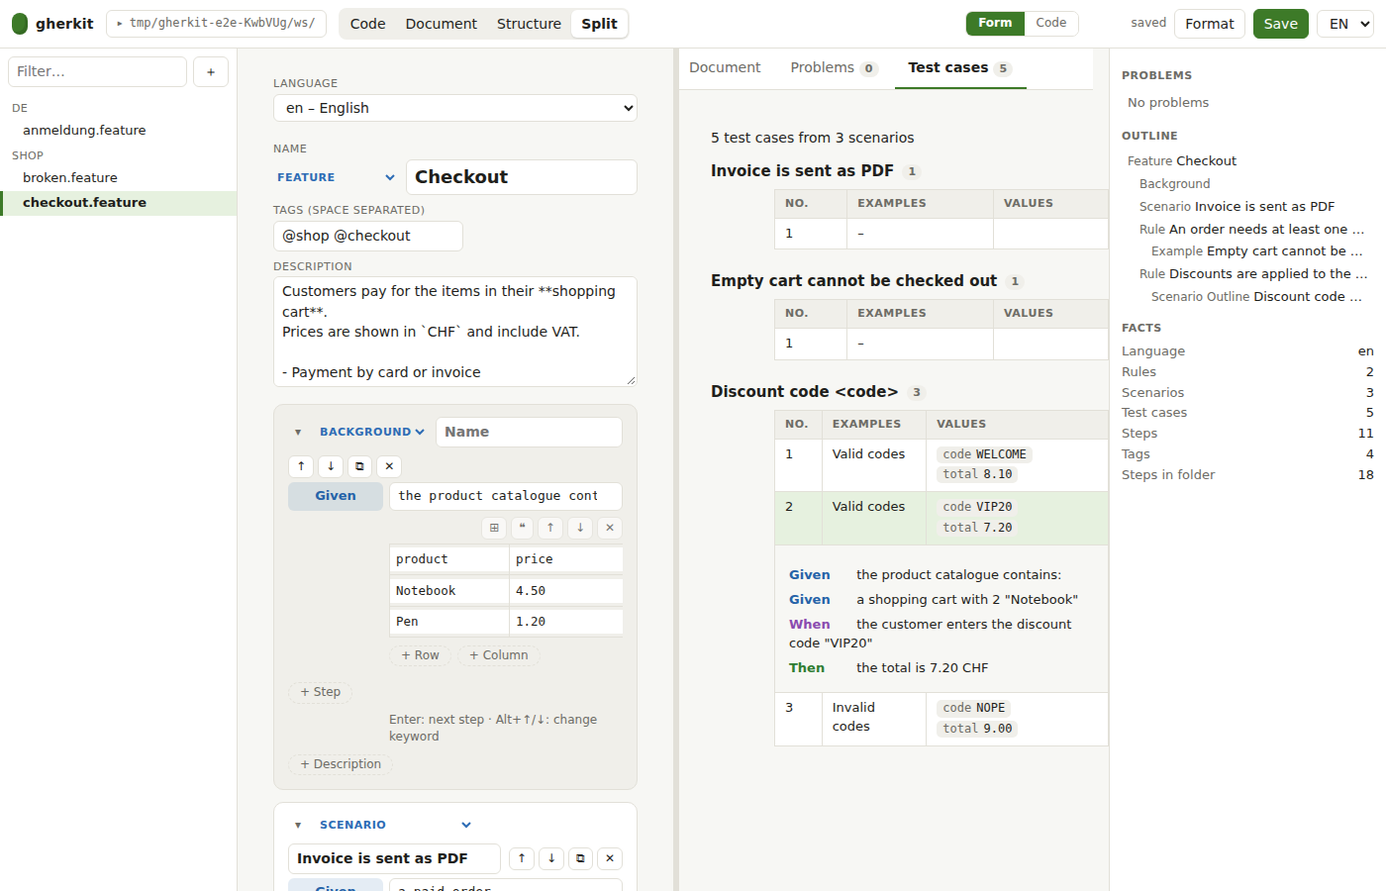
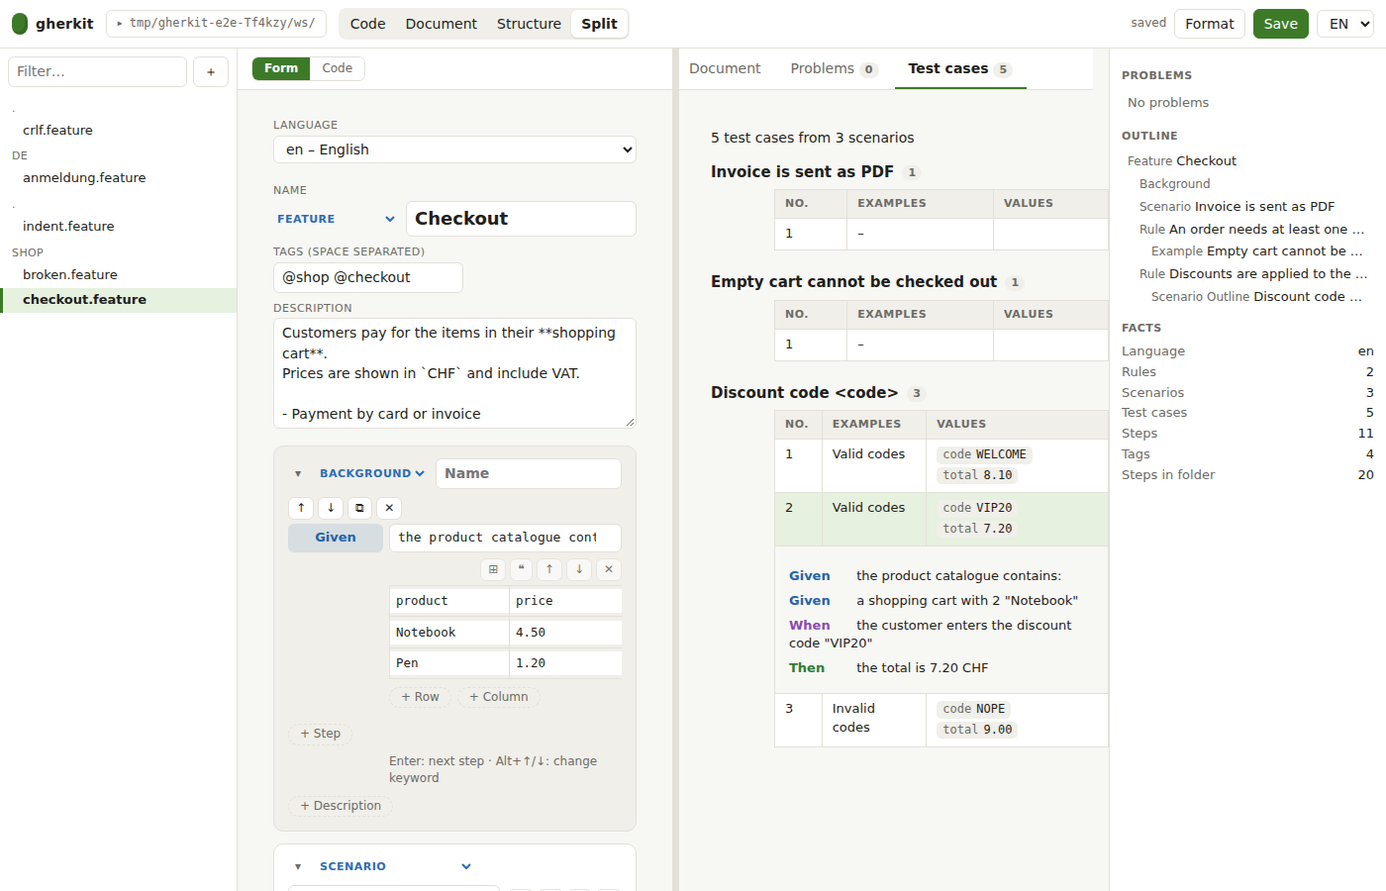
Editor: Split with a header on both halves, position travels with the switch, Alt+1/Alt+2
Split gets a header on both halves: Form | Code on the left, Document, Problems and Test cases on the right. Switching between form and code keeps the place, Alt+1 and Alt+2 switch, and the choice is remembered per file. Fixes: the highlighting is moved along with an edit instead of garbling after Enter, and a file longer than the screen is shown completely in the code view. Browser tests, docs and screenshots updated.

Claude-Session: https://claude.ai/code/session_01XnqX1XzzLxZZywwT6JKDy8

diff --git a/internal/server/web/app.js b/internal/server/web/app.js
@@ -24,7 +24,7 @@
       row: '+ Zeile', col: '+ Spalte', newFileName: 'Dateiname für das neue Feature (z. B. login.feature):', discard: 'Ungespeicherte Änderungen verwerfen?',
       folderFeatures: '{n} Features', fmtFailed: 'Formatieren nicht möglich: Syntaxfehler', comments: 'Kommentare',
       tagFilter: 'Nach Tag filtern', clearFilter: 'Filter aufheben', noMatch: 'Kein Szenario mit diesem Tag.',
-      copy: 'Kopie', leftForm: 'Formular', tabDoc: 'Dokument', tabProblems: 'Probleme', tabCases: 'Testfälle', casesSummary: '{n} Testfälle aus {m} Szenarien', caseNo: 'Nr.', caseEx: 'Beispiele', caseVals: 'Werte', noCases: 'Keine Testfälle.', layoutCards: 'Karten', layoutList: 'Liste', layoutLabel: 'Darstellung', ruleHint: 'Die Szenarien dieser Regel stehen in der Liste links.', badOrder: 'Reihenfolge nicht erlaubt: Hintergrund steht zuerst, Szenarien vor den Regeln.', noName: '(ohne Namen)', featureItem: 'Funktionalität', openCase: 'Testfall ein-/ausklappen', leftCode: 'Code', splitLeftLabel: 'Linke Seite', stepHint: 'Enter: nächster Schritt · Alt+↑/↓: Schlüsselwort wechseln', chipTags: '+ Tags', chipDesc: '+ Beschreibung', kwTitle: 'Schlüsselwort wechseln (Klick, Umschalt+Klick rückwärts)', pasteHint: 'Aus Excel einfügen: Tabellenbereich kopieren und hier einfügen', duplicate: 'Duplizieren', fold: 'Auf-/zuklappen', splitHandle: 'Breite anpassen', nSteps: '{n} Schritte', nBlocks: '{n} Blöcke'
+      copy: 'Kopie', leftForm: 'Formular', leftFormTitle: 'Formular (Alt+1)', leftCodeTitle: 'Code (Alt+2)', tabDoc: 'Dokument', tabProblems: 'Probleme', tabCases: 'Testfälle', casesSummary: '{n} Testfälle aus {m} Szenarien', caseNo: 'Nr.', caseEx: 'Beispiele', caseVals: 'Werte', noCases: 'Keine Testfälle.', layoutCards: 'Karten', layoutList: 'Liste', layoutLabel: 'Darstellung', ruleHint: 'Die Szenarien dieser Regel stehen in der Liste links.', badOrder: 'Reihenfolge nicht erlaubt: Hintergrund steht zuerst, Szenarien vor den Regeln.', noName: '(ohne Namen)', featureItem: 'Funktionalität', openCase: 'Testfall ein-/ausklappen', leftCode: 'Code', splitLeftLabel: 'Linke Seite', stepHint: 'Enter: nächster Schritt · Alt+↑/↓: Schlüsselwort wechseln', chipTags: '+ Tags', chipDesc: '+ Beschreibung', kwTitle: 'Schlüsselwort wechseln (Klick, Umschalt+Klick rückwärts)', pasteHint: 'Aus Excel einfügen: Tabellenbereich kopieren und hier einfügen', duplicate: 'Duplizieren', fold: 'Auf-/zuklappen', splitHandle: 'Breite anpassen', nSteps: '{n} Schritte', nBlocks: '{n} Blöcke'
     },
     en: {
       vCode: 'Code', vDoc: 'Document', vStruct: 'Structure', vSplit: 'Split', format: 'Format', save: 'Save',
@@ -40,7 +40,7 @@
       row: '+ Row', col: '+ Column', newFileName: 'File name for the new feature (e.g. login.feature):', discard: 'Discard unsaved changes?',
       folderFeatures: '{n} features', fmtFailed: 'Cannot format: syntax errors', comments: 'Comments',
       tagFilter: 'Filter by tag', clearFilter: 'Clear filter', noMatch: 'No scenario with this tag.',
-      copy: 'copy', leftForm: 'Form', tabDoc: 'Document', tabProblems: 'Problems', tabCases: 'Test cases', casesSummary: '{n} test cases from {m} scenarios', caseNo: 'No.', caseEx: 'Examples', caseVals: 'Values', noCases: 'No test cases.', layoutCards: 'Cards', layoutList: 'List', layoutLabel: 'Layout', ruleHint: 'The scenarios of this rule are in the list on the left.', badOrder: 'Order not allowed: Background comes first, scenarios before rules.', noName: '(no name)', featureItem: 'Feature', openCase: 'Toggle test case', leftCode: 'Code', splitLeftLabel: 'Left pane', stepHint: 'Enter: next step · Alt+↑/↓: change keyword', chipTags: '+ Tags', chipDesc: '+ Description', kwTitle: 'Change keyword (click, Shift+click backwards)', pasteHint: 'Paste from Excel: copy a cell range and paste it here', duplicate: 'Duplicate', fold: 'Collapse/expand', splitHandle: 'Adjust width', nSteps: '{n} steps', nBlocks: '{n} blocks'
+      copy: 'copy', leftForm: 'Form', leftFormTitle: 'Form (Alt+1)', leftCodeTitle: 'Code (Alt+2)', tabDoc: 'Document', tabProblems: 'Problems', tabCases: 'Test cases', casesSummary: '{n} test cases from {m} scenarios', caseNo: 'No.', caseEx: 'Examples', caseVals: 'Values', noCases: 'No test cases.', layoutCards: 'Cards', layoutList: 'List', layoutLabel: 'Layout', ruleHint: 'The scenarios of this rule are in the list on the left.', badOrder: 'Order not allowed: Background comes first, scenarios before rules.', noName: '(no name)', featureItem: 'Feature', openCase: 'Toggle test case', leftCode: 'Code', splitLeftLabel: 'Left pane', stepHint: 'Enter: next step · Alt+↑/↓: change keyword', chipTags: '+ Tags', chipDesc: '+ Description', kwTitle: 'Change keyword (click, Shift+click backwards)', pasteHint: 'Paste from Excel: copy a cell range and paste it here', duplicate: 'Duplicate', fold: 'Collapse/expand', splitHandle: 'Adjust width', nSteps: '{n} steps', nBlocks: '{n} blocks'
     }
   };
   var lang = 'de';
@@ -120,6 +120,7 @@
     if (dirty() && !confirm(t('discard'))) return Promise.resolve();
     return api('GET', '/api/file?path=' + encodeURIComponent(path)).then(function (f) {
       S.path = f.path; S.text = f.content; S.saved = f.content; S.edit = null; S.lastGood = null; S.parsed = null; S.tagFilter = ''; S.folded = {}; S.opened = {}; S.caseOpen = ''; S.sel = '';
+      var remembered = readLeftMap()[leftKey()]; if (remembered === 'form' || remembered === 'code') S.splitLeft = remembered;
       persist(); renderFiles(); showVariant(); setSource(S.text, true); updateDirty();
       return reparse();
     });
@@ -178,7 +179,8 @@
     $('view-code').hidden = !has || !codeActive();
     $('view-doc').hidden = !has || !(v === 'doc' || v === 'split');
     $('view-struct').hidden = !has || !structActive();
-    $('split-left').hidden = !(v === 'split' && has);
+    $('left-head').hidden = !(v === 'split' && has);
+    $('left-code-tools').hidden = S.splitLeft !== 'code';
     document.querySelectorAll('#split-left button').forEach(function (b) { b.setAttribute('aria-pressed', String(b.dataset.left === S.splitLeft)); });
     $('main').classList.toggle('split', v === 'split' && has);
     $('split-handle').hidden = !(v === 'split' && has);
@@ -192,12 +194,71 @@
     S.variant = v; persist(); showVariant();
   }
   // Split: choose what the left half shows (form or code); the right half is always the preview.
+  // The choice is remembered per file; the last choice is also the default for files without one.
+  function leftKey() { return S.root + '|' + S.path; }
+  function readLeftMap() { try { return JSON.parse(localStorage.getItem('gherkit.splitLeftByFile') || '{}') || {}; } catch (e) { return {}; } }
+  function rememberLeft(side) {
+    try {
+      localStorage.setItem('gherkit.splitLeft', side);
+      if (!S.path) return;
+      var m = readLeftMap(), keys;
+      m[leftKey()] = side; keys = Object.keys(m);
+      if (keys.length > 300) delete m[keys[0]];
+      localStorage.setItem('gherkit.splitLeftByFile', JSON.stringify(m));
+    } catch (e) { }
+  }
+  // Positions in document order: every block and step with its path (c1, c1.s2, c2.c0.s1) and first line.
+  function positions(doc) {
+    var out = [], f = doc && doc.feature;
+    if (!f) return out;
+    function start(n) { var l = n.location.line; (n.tags || []).forEach(function (t) { if (t.location.line < l) l = t.location.line; }); return l; }
+    function block(b, p) { out.push({ path: p, line: start(b) }); (b.steps || []).forEach(function (s, k) { out.push({ path: p + '.s' + k, line: s.location.line }); }); }
+    f.children.forEach(function (c, i) {
+      var p = 'c' + i;
+      if (c.background) block(c.background, p);
+      if (c.scenario) block(c.scenario, p);
+      if (c.rule) {
+        out.push({ path: p, line: start(c.rule) });
+        c.rule.children.forEach(function (rc, j) { var q = p + '.c' + j; if (rc.background) block(rc.background, q); if (rc.scenario) block(rc.scenario, q); });
+      }
+    });
+    return out;
+  }
+  function currentDoc() { var r = S.parsed && !S.parsed.errors.length ? S.parsed : S.lastGood; return r && r.document; }
+  function pathAtLine(line) { var best = ''; positions(currentDoc()).forEach(function (x) { if (x.line <= line) best = x.path; }); return best; }
+  function lineOfPath(path) { var hit = 0; positions(currentDoc()).forEach(function (x) { if (x.path === path) hit = x.line; }); return hit; }
+  function focusLine(line) {
+    var lines = src.value.split('\n'), pos = 0;
+    for (var i = 0; i < line - 1 && i < lines.length; i++) pos += lines[i].length + 1;
+    var end = pos + (lines[line - 1] || '').length;
+    src.focus(); src.setSelectionRange(end, end);
+    $('view-code').scrollTop = Math.max(0, (line - 6) * lineH);
+    syncDocSoon();
+  }
+  // Split: choose what the left half shows (form or code); the right half is always the preview.
+  // The place you are working at is taken along: the focused form step becomes the code cursor line and the other way round.
+  // Switches run one after the other, so a quick second switch (Alt+1 then Alt+2) starts from the state the first one left.
+  var leftQueue = Promise.resolve();
   function setLeft(side) {
-    if (side === S.splitLeft) return;
-    if (S.splitLeft === 'form') S.edit = null;
-    S.splitLeft = side;
-    try { localStorage.setItem('gherkit.splitLeft', side); } catch (e) { }
-    showVariant();
+    leftQueue = leftQueue.then(function () { return switchLeft(side); }).catch(function () { });
+    return leftQueue;
+  }
+  function switchLeft(side) {
+    if (side === S.splitLeft) return Promise.resolve();
+    var from = S.splitLeft, line = 0, path = '', prep;
+    if (from === 'form') {
+      prep = syncNow().then(function () { if (S.curPath) line = lineOfPath(S.curPath); });
+    } else {
+      var caretLine = src.value.slice(0, src.selectionStart).split('\n').length;
+      prep = reparse().then(function () { path = pathAtLine(caretLine); });
+    }
+    return prep.then(function () {
+      if (from === 'form') S.edit = null;
+      S.splitLeft = side; rememberLeft(side);
+      showVariant();
+      if (side === 'code' && line) focusLine(line);
+      if (side === 'form' && path) focusForm(path);
+    });
   }
   document.querySelectorAll('#split-left button').forEach(function (b) { b.addEventListener('click', function () { setLeft(b.dataset.left); }); });
   function persist() {
@@ -231,7 +292,7 @@
   function renderCodeHL() {
     if (!S.path) return;
     var lines = src.value.split('\n');
-    var tokens = S.parsed ? S.parsed.tokens : [];
+    var tokens = S.hlFor === S.parsed && S.hlTokens ? S.hlTokens : (S.parsed ? S.parsed.tokens : []);
     var bad = new Set(), sev = {}, msgs = {};
     S.diags.forEach(function (d) {
       (msgs[d.line] = msgs[d.line] || []).push(d.message);
@@ -245,14 +306,35 @@
     gutter.innerHTML = g;
   }
   function jumpTo(line) {
-    if (!codeActive()) { if (S.variant === 'split') setLeft('code'); else setVariant('code'); }
+    if (!codeActive()) {
+      if (S.variant === 'split') { setLeft('code').then(function () { jumpTo(line); }); return; }
+      setVariant('code');
+    }
     var lines = src.value.split('\n'), pos = 0;
     for (var i = 0; i < line - 1 && i < lines.length; i++) pos += lines[i].length + 1;
     src.focus(); src.setSelectionRange(pos, pos + (lines[line - 1] || '').length);
     $('view-code').scrollTop = Math.max(0, (line - 4) * lineH);
   }
 
+  // Until the parser has answered, the colours of the old text would be applied to the new lines (garbled
+  // keywords after pressing Enter). Move the tokens of unchanged lines along with the edit instead; the
+  // lines that changed stay plain for a moment.
+  function shiftTokens(prev, next) {
+    var base = S.hlFor === S.parsed && S.hlTokens ? S.hlTokens : (S.parsed ? S.parsed.tokens : null);
+    if (!base || !base.length) return;
+    var a = prev.split('\n'), b = next.split('\n'), delta = b.length - a.length;
+    if (delta === 0) return;
+    var min = Math.min(a.length, b.length), p = 0, s = 0;
+    while (p < min && a[p] === b[p]) p++;
+    while (s < min - p && a[a.length - 1 - s] === b[b.length - 1 - s]) s++;
+    S.hlTokens = base.filter(function (t) { return t.line <= p || t.line > a.length - s; }).map(function (t) {
+      if (t.line <= p) return t;
+      var m = {}; for (var k in t) m[k] = t[k]; m.line = t.line + delta; return m;
+    });
+    S.hlFor = S.parsed;
+  }
   src.addEventListener('input', function () {
+    shiftTokens(S.text, src.value);
     S.text = src.value; S.edit = null; sizeEditor(); renderCodeHL(); updateDirty(); reparseSoon(); suggest();
     if (S.variant === 'split') renderDocSoon();
   });
@@ -696,7 +778,7 @@
     markPath(p);
     var blk = $('view-struct').querySelector('[data-path="' + p + '"]');
     if (!blk) return;
-    var inp = blk.querySelector('input[aria-label="step"]') || blk.querySelector('input');
+    var isStep = /\.s\d+$/.test(p), inp = isStep ? blk.querySelector('input[aria-label="step"]') : (blk.querySelector('.block-head input') || blk.querySelector('input'));
     if (inp) inp.focus();
     blk.scrollIntoView({ block: 'nearest' });
   }
@@ -802,17 +884,21 @@
   }
 
   // ---------- structure view ----------
-  var syncSoon = debounce(function () {
-    if (!S.edit) return;
-    api('POST', '/api/render', S.edit).then(function (r) {
+  // Only edits are printed back into the text: looking at the form must not rewrite (or "dirty") a file.
+  var pendingEdit = false;
+  function syncNow() {
+    if (!S.edit || !pendingEdit) return Promise.resolve();
+    pendingEdit = false;
+    return api('POST', '/api/render', S.edit).then(function (r) {
       S.text = r.content; S.parsed = r.parsed; if (!r.parsed.errors.length) S.lastGood = r.parsed;
       setSource(S.text, true); updateDirty();
       api('POST', '/api/lint', { path: S.path, content: S.text }).then(function (l) { S.diags = l.diagnostics || []; renderProblems(); renderCodeHL(); if (S.variant === 'split') renderDoc(); });
       renderOutline(); renderFacts();
       if (S.variant === 'split') renderDoc();
     });
-  }, 250);
-  function changed() { syncSoon(); }
+  }
+  var syncSoon = debounce(syncNow, 250);
+  function changed() { pendingEdit = true; syncSoon(); }
 
   function kwOptions(kind) { return ((S.dialect || {})[kind] || []).slice(); }
   function select(options, value, onchange, cls) {
@@ -1149,7 +1235,7 @@
       view.appendChild(el('div', { class: 'st' }, [el('p', { class: 'hint', text: t('fixFirst') }), el('ul', {}, res.errors.map(function (e) { return el('li', {}, [el('a', { href: '#', text: t('line') + ' ' + e.line + ': ' + e.message, onclick: function (ev) { ev.preventDefault(); jumpTo(e.line); } })]); }))]));
       return;
     }
-    if (!S.edit) S.edit = clone(res.document);
+    if (!S.edit) { S.edit = clone(res.document); pendingEdit = false; }
     var doc = S.edit;
     if (!doc.feature) doc.feature = { keyword: kwOptions('feature')[0] || 'Feature', name: '', description: '', language: S.dialectCode || 'en', tags: [], children: [] };
     var f = doc.feature;
@@ -1245,11 +1331,13 @@
   document.querySelectorAll('.variants button').forEach(function (b) { b.addEventListener('click', function () { setVariant(b.dataset.variant); }); });
   $('save-btn').addEventListener('click', save);
   $('fmt-btn').addEventListener('click', formatSource);
+  $('left-fmt').addEventListener('click', formatSource);
   $('filter').addEventListener('input', renderFiles);
   $('ui-lang').addEventListener('change', function (e) { lang = e.target.value; try { localStorage.setItem('gherkit.lang', lang); } catch (x) { } applyI18n(); showVariant(); renderProblems(); renderFacts(); });
   document.addEventListener('keydown', function (e) {
     if ((e.ctrlKey || e.metaKey) && e.key === 's') { e.preventDefault(); save(); }
     if (e.altKey && e.shiftKey && (e.key === 'F' || e.key === 'f')) { e.preventDefault(); formatSource(); }
+    if (e.altKey && !e.ctrlKey && !e.metaKey && !e.shiftKey && S.variant === 'split' && S.path && (e.code === 'Digit1' || e.code === 'Digit2')) { e.preventDefault(); setLeft(e.code === 'Digit1' ? 'form' : 'code'); }
   });
   window.addEventListener('hashchange', function () {
     var p = new URLSearchParams(location.hash.slice(1)), v = p.get('variant'), f = p.get('file');

diff --git a/internal/server/web/style.css b/internal/server/web/style.css
@@ -58,9 +58,10 @@ input:focus, select:focus, textarea:focus, button:focus-visible { outline: 2px s
 .view { flex: 1; overflow: auto; min-height: 0; }
 .main.split { flex-direction: row; }
 .main.split .view { flex: 1 1 50%; }
-.main.split #view-code, .main.split #view-struct { flex: 0 0 var(--split, 50%); min-width: 0; }
+.left-pane { display: contents; }
+.main.split .left-pane { display: flex; flex-direction: column; flex: 0 0 var(--split, 50%); min-width: 0; border-right: 1px solid var(--line); }
+.main.split .left-pane > .view { flex: 1 1 0; min-height: 0; }
 .main.split #view-doc { flex: 1 1 0; min-width: 0; }
-.main.split #view-code { border-right: 1px solid var(--line); }
 .empty { margin: auto; color: var(--muted); text-align: center; padding: 40px; }
 .panel h2 { font-size: 11px; text-transform: uppercase; letter-spacing: .5px; color: var(--muted); margin: 12px 0 6px; }
 .problems, .outline { list-style: none; margin: 0; padding: 0; font-size: 13px; }
@@ -77,6 +78,9 @@ input:focus, select:focus, textarea:focus, button:focus-visible { outline: 2px s
 
 /* code editor */
 .code-view { display: flex; }
+/* The editor grows with the text (the view scrolls). Stretching it to the height of the view would cut the
+   highlighting and the line numbers off after the first screen. */
+.code-view > .editor { align-self: flex-start; }
 .editor { display: flex; flex: 1; min-height: 100%; font: var(--font)/var(--line-h) var(--mono); background: var(--surface); }
 .gutter { padding: 10px 0; min-width: 52px; text-align: right; color: var(--muted); background: var(--sunken); user-select: none; border-right: 1px solid var(--line); }
 .gutter div { height: var(--line-h); padding: 0 8px 0 14px; position: relative; font-size: 12px; }
@@ -192,7 +196,8 @@ dialog::backdrop { background: rgba(0,0,0,.35); }
   .side { max-height: 30vh; border-right: 0; border-bottom: 1px solid var(--line); }
   .panel { display: none; }
   .main.split { flex-direction: column; }
-  .main.split #view-code, .main.split #view-struct, .main.split #view-doc { flex: 1 1 50%; }
+  .main.split .left-pane, .main.split #view-doc { flex: 1 1 50%; }
+  .main.split .left-pane { border-right: 0; border-bottom: 1px solid var(--line); }
   .split-handle { display: none; }
 }
 
@@ -245,8 +250,8 @@ dialog::backdrop { background: rgba(0,0,0,.35); }
 
 /* P2: preview tabs, test cases, problems */
 .doc-view.has-tabs { padding: 0; }
-.rtabs { position: sticky; top: 0; z-index: 2; display: flex; gap: 2px; padding: 0 12px; background: var(--surface); border-bottom: 1px solid var(--line); }
-.rtabs button { border: 0; border-bottom: 2px solid transparent; border-radius: 0; background: none; padding: 9px 14px; color: var(--muted); }
+.rtabs { position: sticky; top: 0; z-index: 2; display: flex; gap: 2px; padding: 0 12px; height: 42px; background: var(--surface); border-bottom: 1px solid var(--line); }
+.rtabs button { border: 0; border-bottom: 2px solid transparent; border-radius: 0; background: none; padding: 0 14px; color: var(--muted); }
 .rtabs button[aria-selected="true"] { color: var(--fg); font-weight: 600; border-bottom-color: var(--accent); }
 .rtabs .count, .case-group .count { display: inline-block; min-width: 20px; text-align: center; font-size: 11px; font-weight: 600; border-radius: 999px; padding: 0 6px; background: var(--sunken); color: var(--muted); }
 .rbody { padding: 24px clamp(16px, 4vw, 48px); }
@@ -290,3 +295,13 @@ table.cases tr.case-detail td { background: var(--bg); padding: 8px 14px 12px; }
   .step:hover .tools, .step:focus-within .tools { opacity: 1; }
   .step-hint { padding-left: 102px; }
 }
+
+/* V1: both halves of Split have a header of the same height */
+.phead { flex: none; height: 42px; display: flex; align-items: center; gap: 10px; padding: 0 14px; background: var(--surface); border-bottom: 1px solid var(--line); }
+.phead .sp { flex: 1; }
+.left-tools { display: inline-flex; align-items: center; gap: 10px; }
+.left-tools button { font-size: 12px; padding: 2px 10px; }
+.left-tools .hint { color: var(--muted); font-size: 12px; }
+.phead .seg { flex: none; }
+.phead .seg button { white-space: nowrap; }
+.left-tools { flex: none; }

diff --git a/internal/server/web/index.html b/internal/server/web/index.html
@@ -18,7 +18,6 @@
     <button role="tab" data-variant="split" data-i18n="vSplit">Split</button>
   </nav>
   <div class="actions">
-    <div id="split-left" class="seg" role="group" aria-label="Linke Seite" data-i18n-title="splitLeftLabel" hidden><button data-left="form" data-i18n="leftForm">Formular</button><button data-left="code" data-i18n="leftCode">Code</button></div>
     <span id="status" class="status" aria-live="polite"></span>
     <button id="fmt-btn" data-i18n="format">Formatieren</button>
     <button id="save-btn" class="primary" data-i18n="save">Speichern</button>
@@ -37,17 +36,29 @@
 
   <main id="main" class="main">
     <div id="empty" class="empty"></div>
-    <section id="view-code" class="view code-view" hidden>
-      <div class="editor" id="editor">
-        <div class="gutter" id="gutter" aria-hidden="true"></div>
-        <div class="code-wrap">
-          <pre class="hl" id="hl" aria-hidden="true"></pre>
-          <textarea id="src" spellcheck="false" autocapitalize="off" autocomplete="off" aria-label="Gherkin source"></textarea>
-          <ul id="complete" class="complete" hidden role="listbox"></ul>
+    <div id="left-pane" class="left-pane">
+      <div id="left-head" class="phead" hidden>
+        <div id="split-left" class="seg" role="group" aria-label="Linke Seite" data-i18n-title="splitLeftLabel">
+          <button data-left="form" data-i18n="leftForm" data-i18n-title="leftFormTitle" title="Formular (Alt+1)">Formular</button>
+          <button data-left="code" data-i18n="leftCode" data-i18n-title="leftCodeTitle" title="Code (Alt+2)">Code</button>
         </div>
+        <span class="sp"></span>
+        <span id="left-code-tools" class="left-tools" hidden>
+          <button id="left-fmt" data-i18n="format">Formatieren</button>
+        </span>
       </div>
-    </section>
-    <section id="view-struct" class="view struct-view" hidden></section>
+      <section id="view-code" class="view code-view" hidden>
+        <div class="editor" id="editor">
+          <div class="gutter" id="gutter" aria-hidden="true"></div>
+          <div class="code-wrap">
+            <pre class="hl" id="hl" aria-hidden="true"></pre>
+            <textarea id="src" spellcheck="false" autocapitalize="off" autocomplete="off" aria-label="Gherkin source"></textarea>
+            <ul id="complete" class="complete" hidden role="listbox"></ul>
+          </div>
+        </div>
+      </section>
+      <section id="view-struct" class="view struct-view" hidden></section>
+    </div>
     <div id="split-handle" class="split-handle" role="separator" aria-orientation="vertical" tabindex="0" title="Breite anpassen" data-i18n-title="splitHandle" aria-valuemin="20" aria-valuemax="80" aria-valuenow="50" hidden></div>
     <section id="view-doc" class="view doc-view" hidden></section>
   </main>

diff --git a/docs/editor-variants.md b/docs/editor-variants.md
@@ -73,6 +73,7 @@ stays a lightweight textarea. CodeMirror 6 is reconsidered when large files beco
 | Structure | **Calm cards:** tags and description appear as chips until used, keywords are colored pills (click or Alt+Up/Down), Enter adds the next step | ![Structure](img/editor-struct.png) |
 | Structure | **List and detail:** scenario list with test case counts, edit one block at a time, reorder by drag and drop (Background first, scenarios before rules) | ![Structure list](img/editor-struct-list.png) |
 | Split | **Form and preview:** form (or code) on the left, preview on the right, the focused step is marked, a click in the preview focuses it in the form | ![Split](img/editor-split.png) |
+| Split | **Code on the left:** the same split with the Gherkin code instead of the form, with completion, automatic indentation and the preview on the right | ![Split code](img/editor-split-code.png) |
 | Split | **Test cases tab:** every test case generated from scenario outlines, expandable into readable steps; a Problems tab next to the Document tab | ![Split test cases](img/editor-split-cases.png) |
 
 ### Automatic indentation (Code view)
@@ -82,3 +83,13 @@ Enter and Tab keep the file on the formatter's grid, so nobody has to count spac
 - **Enter** puts the finished line at its place (Feature 0, Rule and Scenario 2, in a Rule 4, steps and Examples one level deeper, table rows and doc strings one more) and starts the next line where the next line usually goes: after `Scenario:` the first step, after a step the next step, after `Examples:` the table. On an empty line it leaves the block and removes trailing spaces.
 - **Tab** moves the current line onto its place. On an empty line it walks through the levels, **Shift+Tab** walks back. With several lines selected it indents or outdents all of them by two.
 - Inside a doc string nothing is moved. **Ctrl+/** comments the selected lines out and back in.
+
+### Split: form or code on the left
+
+Both halves have a header of the same height. The left one switches between **Form** and **Code**, the right one between
+Document, Test cases and Problems.
+
+- **The place travels with the switch.** The step you are in becomes the cursor line in the code, and the line the cursor
+  is on becomes the focused step in the form.
+- **Alt+1** shows the form, **Alt+2** the code.
+- **The choice is remembered per file** (and the last choice is the default for files without one).
